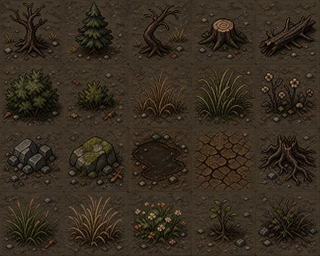
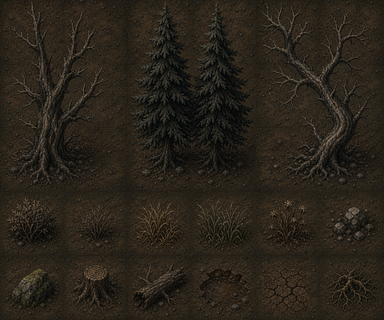
Scale nature atlas tree tiles

diff --git a/tools/art_pipeline/generate_nature_environment_assets.py b/tools/art_pipeline/generate_nature_environment_assets.py
@@ -65,31 +65,26 @@ ATLASES = {
         ],
     },
     "nature_atlas": {
-        "source": RAW / "imagegen_nature_atlas_source.png",
+        "source": RAW / "imagegen_nature_scaled_atlas_source.png",
         "output": TILES / "nature_atlas.png",
-        "columns": 5,
-        "rows": 4,
+        "columns": 6,
+        "rows": 5,
         "tiles": [
-            "dead_tree",
-            "pine_tree",
-            "bent_tree",
-            "tree_stump",
-            "fallen_log",
-            "large_bush",
-            "small_bush",
-            "dry_grass",
-            "wild_grass",
-            "dead_flowers",
-            "rock_cluster",
-            "mossy_rock",
-            "mud_pit",
-            "cracked_soil",
-            "root_cluster",
-            "grass_variant_a",
-            "grass_variant_b",
-            "flower_variant",
-            "sapling",
-            "scrub_patch",
+            {"id": "large_dead_tree", "coord": [0, 0], "size": [2, 3]},
+            {"id": "large_pine_tree", "coord": [2, 0], "size": [2, 3]},
+            {"id": "large_bent_tree", "coord": [4, 0], "size": [2, 3]},
+            {"id": "large_bush", "coord": [0, 3], "size": [1, 1]},
+            {"id": "small_bush", "coord": [1, 3], "size": [1, 1]},
+            {"id": "dry_grass", "coord": [2, 3], "size": [1, 1]},
+            {"id": "wild_grass", "coord": [3, 3], "size": [1, 1]},
+            {"id": "dead_flowers", "coord": [4, 3], "size": [1, 1]},
+            {"id": "rock_cluster", "coord": [5, 3], "size": [1, 1]},
+            {"id": "mossy_rock", "coord": [0, 4], "size": [1, 1]},
+            {"id": "tree_stump", "coord": [1, 4], "size": [1, 1]},
+            {"id": "fallen_log", "coord": [2, 4], "size": [1, 1]},
+            {"id": "mud_pit", "coord": [3, 4], "size": [1, 1]},
+            {"id": "cracked_soil", "coord": [4, 4], "size": [1, 1]},
+            {"id": "root_cluster", "coord": [5, 4], "size": [1, 1]},
         ],
     },
 }
@@ -134,9 +129,22 @@ def choose_grid_runs(image: Image.Image, columns: int, rows: int) -> tuple[list[
             f"Could not detect atlas gutters in {image.size}: "
             f"vertical={vertical}, horizontal={horizontal}"
         )
-    vertical = vertical[: columns + 1]
-    horizontal = horizontal[: rows + 1]
-    return vertical, horizontal
+    return (
+        choose_expected_grid_lines(vertical, image.width, columns),
+        choose_expected_grid_lines(horizontal, image.height, rows),
+    )
+
+
+def choose_expected_grid_lines(runs: list[tuple[int, int]], length: int, cells: int) -> list[tuple[int, int]]:
+    selected: list[tuple[int, int]] = []
+    remaining = runs.copy()
+    for index in range(cells + 1):
+        target = 0 if index == 0 else length - 1 if index == cells else round(length * index / cells)
+        run = min(remaining, key=lambda candidate: abs(((candidate[0] + candidate[1]) / 2) - target))
+        selected.append(run)
+        remaining.remove(run)
+    selected.sort(key=lambda run: run[0])
+    return selected
 
 
 def extract_cells(source_path: Path, columns: int, rows: int) -> list[Image.Image]:

diff --git a/CHANGELOG.md b/CHANGELOG.md
@@ -26,4 +26,4 @@
 - Added generated map objects, buildings, defense pieces, production facilities, wreckage, and city props as paintable TileSet sources, plus empty paint layers for manual scene editing.
 - Rewired `BaseHub` to use a single editor-created `TileMap` node with the shared complete TileSet and named internal layers for manual map painting.
 - Added a bunker/lab interior art kit with entrance, lab floor variants, wall panels, supercomputer, animated screen frames, bed, tables, locker, shelf, and chair assets.
-- Added image-generated natural environment atlas sheets for stone roads, connectable mountain terrain, trees, shrubs, flowers, rocks, and wasteland ground props, with TileSet atlas-source support.
+- Added image-generated natural environment atlas sheets for stone roads, connectable mountain terrain, large multi-tile trees, shrubs, flowers, rocks, and wasteland ground props, with TileSet atlas-source support.